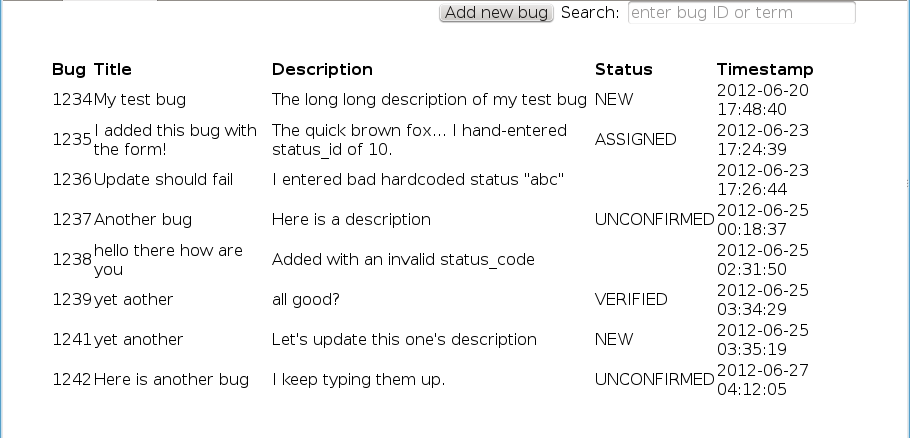
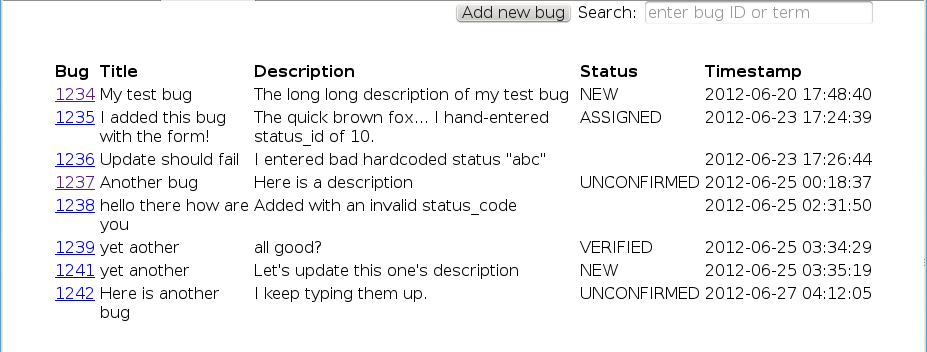
nicer appearance

diff --git a/css/style.css b/css/style.css
@@ -31,6 +31,15 @@ nav {
   text-align: right;
 }
 
+table#buglist {
+  border-collapse: separate;
+  border-spacing: 3px 2px;
+}
+
+td {
+  vertical-align: top;
+}
+
 th {
   text-align: left;
 }

diff --git a/includes/Buglist.php b/includes/Buglist.php
@@ -49,6 +49,8 @@ class Buglist {
      */
     public function renderHTML ( ) {
         global $dbh;
+        global $samePageURL;
+        $listURL = $samePageURL . '&action=list';
         $resStr = '';
         try {
             // Build SQL clause
@@ -76,7 +78,7 @@ class Buglist {
                 print "in " . __FUNCTION__ . " SQL statement="; $sth->debugDumpParams();
             }
             ?>
-            <table>
+            <table id="buglist">
               <tr>
                 <th>Bug</th>
                 <th>Title</th>
@@ -97,11 +99,11 @@ class Buglist {
                 // TODO jQuery "more" that does XMLHTTPrequest for status history.
                 ?>
                 <tr>
-                  <td><?= $bug->bug_id ?></td>
+                  <td><a href="<?= $samePageURL . '&id=' . $bug->bug_id ?>"><?= $bug->bug_id ?></a></td>
                   <td><?= $bug->title ?></td>
                   <td><?= $bug->description ?></td>
                   <td><?= $bug->status_name ?></td>
-                  <td><?= $bug->status_last_modified ?></td>
+                  <td style="white-space:nowrap;"><?= $bug->status_last_modified ?></td>
                 </tr>
                 <?
                 // errorCode is 000.. on success.

diff --git a/README.md b/README.md
@@ -5,7 +5,7 @@ Running it
 ==========
 Just don't.  OK, <a href="/skierpage/minibugz/blob/master/sql/setup.txt">Linux command-line instructions</a> to set up the database and tables.
 
-Instead, imagine running it, <a href="https://github.com/skierpage/minibugz/raw/master/docs/minibugs_listbugs_screenshot.png">seeing a list of bugs</a>, then <a href="https://github.com/skierpage/minibugz/raw/master/docs/minibugs_add_screenshot.png">adding one</a>.  It's like 1997 and "Learn PHP in a Week"
+Instead, imagine running it from these screenshots, <a href="https://github.com/skierpage/minibugz/raw/master/docs/minibugs_listbugs_screenshot.png">seeing a list of bugs</a>, then <a href="https://github.com/skierpage/minibugz/raw/master/docs/minibugs_add_screenshot.png">adding one</a>.  It's like 1997 and SAMS "Learn PHP in a Week" book.
 
 Interesting aspects
 ===================
@@ -54,16 +54,14 @@ In all cases the bug object should cache the status mapping... except in a bug l
 Object creation
 ---------------
 "Create new bug from form values" seems like an object call, thus ```$bug = new Bug ( $_POST )```
-The big issue is whether this should validate.
-If it does validate and validation fails and throws an error, you can't redisplay the form showing bug contents, because the bug isn't there &mdash; I don't think you can throw an error *and* return an object.
+But if creation validates and validation fails and throws an error, you can't redisplay the form showing bug contents, because the bug isn't there &mdash; I don't think you can throw an error *and* return an object.
 
-So either you make processing and error reporting more complicated, or you have separate steps to create a bug object, validate it, and persist it.  The latter is where I ended up, but now you have multiple methods that all iterate through object fields and consider each one, which violates DRY unless you drive it from a buzzword-compliant ORM meta description of bugs which destroys "simple readable PHP".
+So either you make processing and error reporting more complicated, or you have separate steps to create a bug object, validate it, and persist it.
+The latter is where I ended up, but now you have multiple methods that all iterate through object fields and consider each one, which violates DRY unless you drive it from a buzzword-compliant ORM meta description of bugs, which degrades the goal of "simple readable PHP".
 
 the Bug plus status object
 --------------------------
-When displaying the list of bugs, with a LEFT JOIN with status_code you get extra info.
-If you use PDO:FETCH_CLASS or PDO:FETCH_INTO to return a bug instance,
-Could just add extra info to a Bug object, could have a bug_list instance have these extra fields.
+When displaying the list of bugs the LEFT JOIN with status_code, I use PDO:FETCH_INTO to populate a bug instance. The additional columns add extra keys to the bug object. It feels messy not to use a Bug_with_status subclass object, but PHP doesn't care.
 
 TODO
 ====
